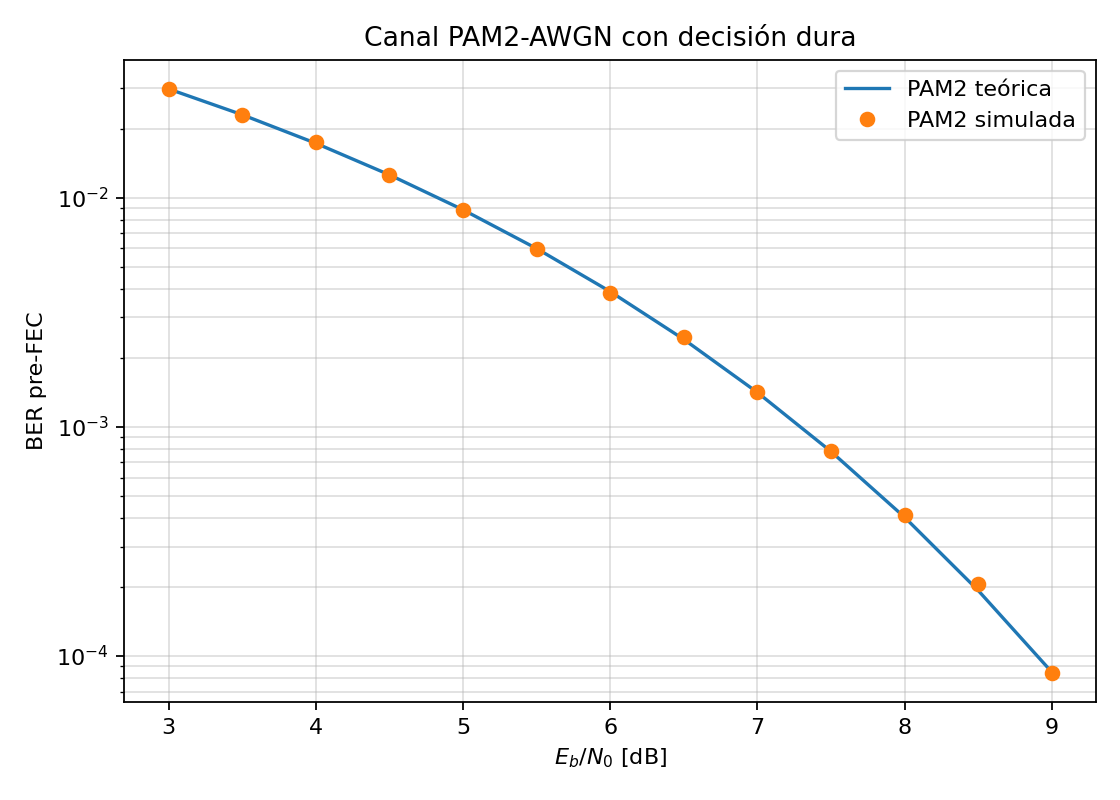
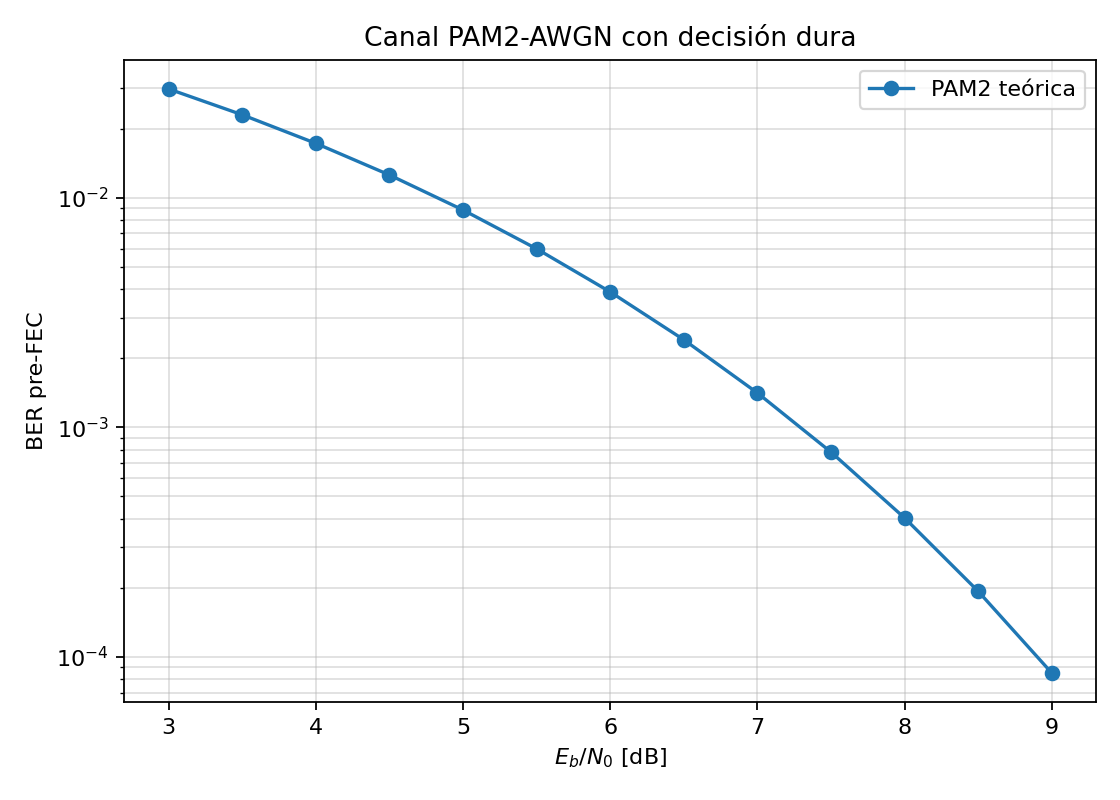
Etapa 1: Modulos de la cadena listos

diff --git a/model/python/src/awgn_simulation.py b/model/python/src/awgn_simulation.py
@@ -4,7 +4,7 @@ from pathlib import Path
 import matplotlib.pyplot as plt
 import numpy as np
 
-from model.python.src.awgn_channel import noise_sigma, theoretical_ber
+from awgn_channel import noise_sigma, theoretical_ber
 
 
 N = 127
@@ -12,59 +12,32 @@ K = 113
 CODE_RATE = K / N
 
 EBN0_DB_LIST = np.arange(3.0, 9.01, 0.5)
-FRAMES_PER_BATCH = 20_000
-MAX_FRAMES = 2_000_000
-MIN_ERRORS = 200
-SEED = 2026
-
-VISUAL_EBN0_DB = 6.0
-VISUAL_SAMPLES = 200_000
+VISUAL_EBN0_DB = 3.0
 OUTPUT_DIRECTORY = Path(__file__).resolve().parents[1] / "results"
 
 
-def simulate_ber(random_generator) -> tuple[list[float], list[float]]:
-    """Estima la BER pre-FEC para cada valor de Eb/N0."""
+def calculate_ber() -> list[float]:
+    """Calcula la BER teórica para cada valor de Eb/N0."""
 
-    simulated_ber = []
     theoretical_values = []
 
-    print("Eb/N0 [dB] | Frames | Errores | BER simulada | BER teórica")
-    print("------------+--------+---------+--------------+------------")
+    print("Eb/N0 [dB] | BER teórica")
+    print("------------+------------")
 
     for ebn0_db in EBN0_DB_LIST:
-        sigma = noise_sigma(ebn0_db, CODE_RATE)
-        frames = 0
-        errors = 0
-
-        while frames < MAX_FRAMES and errors < MIN_ERRORS:
-            batch_frames = min(FRAMES_PER_BATCH, MAX_FRAMES - frames)
-            bits = random_generator.integers(0, 2, size=(batch_frames, N), dtype=np.int8)
-            transmitted = 1.0 - 2.0 * bits
-            noise = random_generator.normal(0.0, sigma, transmitted.shape)
-            received_bits = transmitted + noise < 0.0
-
-            errors += int(np.count_nonzero(received_bits != bits))
-            frames += batch_frames
-
-        ber = errors / (frames * N)
         ber_theory = theoretical_ber(ebn0_db, CODE_RATE)
-        simulated_ber.append(ber)
         theoretical_values.append(ber_theory)
 
-        print(
-            f"{ebn0_db:11.1f} | {frames:6d} | {errors:7d} | "
-            f"{ber:12.4e} | {ber_theory:10.4e}"
-        )
+        print(f"{ebn0_db:11.1f} | {ber_theory:10.4e}")
 
-    return simulated_ber, theoretical_values
+    return theoretical_values
 
 
-def plot_ber(simulated_ber, theoretical_values) -> None:
-    """Grafica la BER simulada y la expresión teórica."""
+def plot_ber(theoretical_values) -> None:
+    """Grafica la BER teórica de PAM2 sobre AWGN."""
 
     plt.figure(figsize=(7, 5))
-    plt.semilogy(EBN0_DB_LIST, theoretical_values, "-", label="PAM2 teórica")
-    plt.semilogy(EBN0_DB_LIST, simulated_ber, "o", label="PAM2 simulada")
+    plt.semilogy(EBN0_DB_LIST, theoretical_values, "o-", label="PAM2 teórica")
     plt.grid(True, which="both", alpha=0.4)
     plt.xlabel("$E_b/N_0$ [dB]")
     plt.ylabel("BER pre-FEC")
@@ -75,22 +48,22 @@ def plot_ber(simulated_ber, theoretical_values) -> None:
     plt.close()
 
 
-def plot_constellation(transmitted, received) -> None:
-    """Muestra la constelación PAM2 ideal y luego del canal."""
+def plot_constellation(sigma: float) -> None:
+    """Muestra los símbolos PAM2 y su dispersión teórica por el ruido."""
 
     figure, axes = plt.subplots(1, 2, figsize=(9, 3.5), sharey=True)
-    ideal_symbols = np.unique(transmitted)
+    ideal_symbols = np.array([-1.0, 1.0])
 
     axes[0].scatter(ideal_symbols, np.zeros(len(ideal_symbols)), s=55)
     axes[0].set_title("Sin ruido")
 
-    axes[1].scatter(received[:1000], np.zeros(1000), s=8, alpha=0.15)
-    axes[1].scatter(
+    axes[1].errorbar(
         ideal_symbols,
         np.zeros(len(ideal_symbols)),
-        s=40,
-        marker="x",
-        label="Símbolos ideales",
+        xerr=sigma,
+        fmt="o",
+        capsize=5,
+        label=r"Símbolos y dispersión $\pm\sigma$",
     )
     axes[1].set_title(f"Con ruido, $E_b/N_0={VISUAL_EBN0_DB:.1f}$ dB")
     axes[1].legend()
@@ -115,13 +88,12 @@ def gaussian_pdf(values, mean: float, sigma: float):
     return scale * np.exp(-0.5 * ((values - mean) / sigma) ** 2)
 
 
-def plot_noise_pdf(noise, sigma: float) -> None:
-    """Compara el histograma del ruido con su PDF teórica."""
+def plot_noise_pdf(sigma: float) -> None:
+    """Grafica la PDF teórica del ruido gaussiano."""
 
     horizontal_axis = np.linspace(-4.0 * sigma, 4.0 * sigma, 500)
 
     plt.figure(figsize=(7, 5))
-    plt.hist(noise, bins=100, density=True, alpha=0.55, label="Muestras")
     plt.plot(horizontal_axis, gaussian_pdf(horizontal_axis, 0.0, sigma), label="PDF teórica")
     plt.grid(True, alpha=0.3)
     plt.xlabel("Amplitud del ruido $n$")
@@ -133,15 +105,14 @@ def plot_noise_pdf(noise, sigma: float) -> None:
     plt.close()
 
 
-def plot_received_distribution(received, sigma: float) -> None:
-    """Muestra la distribución bimodal de las muestras y=x+n."""
+def plot_received_distribution(sigma: float) -> None:
+    """Grafica la PDF teórica de las muestras y=x+n."""
 
     horizontal_axis = np.linspace(-3.5, 3.5, 700)
     theoretical_pdf = 0.5 * gaussian_pdf(horizontal_axis, -1.0, sigma)
     theoretical_pdf += 0.5 * gaussian_pdf(horizontal_axis, 1.0, sigma)
 
     plt.figure(figsize=(7, 5))
-    plt.hist(received, bins=120, density=True, alpha=0.55, label="Muestras recibidas")
     plt.plot(horizontal_axis, theoretical_pdf, label="PDF teórica")
     plt.axvline(0.0, color="gray", linewidth=1, linestyle="--", label="Umbral")
     plt.grid(True, alpha=0.3)
@@ -156,20 +127,14 @@ def plot_received_distribution(received, sigma: float) -> None:
 
 def main() -> None:
     OUTPUT_DIRECTORY.mkdir(parents=True, exist_ok=True)
-    random_generator = np.random.default_rng(SEED)
 
-    simulated_ber, theoretical_values = simulate_ber(random_generator)
-    plot_ber(simulated_ber, theoretical_values)
+    theoretical_values = calculate_ber()
+    plot_ber(theoretical_values)
 
     sigma = noise_sigma(VISUAL_EBN0_DB, CODE_RATE)
-    bits = random_generator.integers(0, 2, VISUAL_SAMPLES, dtype=np.int8)
-    transmitted = 1.0 - 2.0 * bits
-    noise = random_generator.normal(0.0, sigma, VISUAL_SAMPLES)
-    received = transmitted + noise
-
-    plot_constellation(transmitted, received)
-    plot_noise_pdf(noise, sigma)
-    plot_received_distribution(received, sigma)
+    plot_constellation(sigma)
+    plot_noise_pdf(sigma)
+    plot_received_distribution(sigma)
 
     print(f"\nGráficos guardados en {OUTPUT_DIRECTORY}")
 

diff --git a/model/python/src/prbs_checker.py b/model/python/src/prbs_checker.py
@@ -1,0 +1,109 @@
+from model.python.src.prbs31 import ORDER, PRBS31Generator
+
+
+class PRBS31Checker:
+    """Checker que recupera el estado inicial desde los bits recibidos."""
+
+    def __init__(self, taps: list[int], lock_matches: int = 1):
+        if lock_matches <= 0:
+            raise ValueError("La cantidad de coincidencias debe ser mayor que cero")
+
+        if not taps or any(tap < 0 or tap >= ORDER for tap in taps):
+            raise ValueError("Cada tap debe ser un índice válido del estado")
+
+        if len(set(taps)) != len(taps):
+            raise ValueError("Los taps no pueden estar repetidos")
+
+        self.history_indices = [ORDER - 1 - tap for tap in taps]
+        self.lock_matches = lock_matches
+        self.history = []
+        self.consecutive_matches = 0
+        self.locked = False
+        self.received_bits = 0
+        self.discarded_bits = 0
+        self.checked_bits = 0
+        self.error_bits = 0
+
+    def check_bit(self, received: int) -> None:
+        """Procesa un bit recibido y actualiza el estado del checker."""
+
+        if received not in (0, 1):
+            raise ValueError("Cada bit recibido debe valer cero o uno")
+
+        self.received_bits += 1
+
+        if len(self.history) < ORDER:
+            self.history.append(received)
+            return
+
+        expected = 0
+
+        for history_index in self.history_indices:
+            expected ^= self.history[history_index]
+
+        if not self.locked:
+            if received == expected and any(self.history):
+                self.consecutive_matches += 1
+            else:
+                self.consecutive_matches = 0
+
+            self.history.pop(0)
+            self.history.append(received)
+
+            if self.consecutive_matches == self.lock_matches:
+                self.locked = True
+                self.discarded_bits = self.received_bits
+
+            return
+
+        self.checked_bits += 1
+
+        if received != expected:
+            self.error_bits += 1
+
+        # Una vez adquirido el lock, la referencia avanza con el bit esperado
+        # y no con el recibido. Así cada error del canal se cuenta una sola vez.
+        self.history.pop(0)
+        self.history.append(expected)
+
+    def check(self, received_bits: list[int]) -> None:
+        """Procesa una secuencia de bits en orden temporal."""
+
+        for received in received_bits:
+            self.check_bit(received)
+
+    def ber(self) -> float:
+        """Devuelve la BER medida luego de adquirir el lock."""
+
+        if self.checked_bits == 0:
+            return 0.0
+
+        return self.error_bits / self.checked_bits
+
+
+def main() -> None:
+    taps = [30, 27]
+    transmitted_seed = 0x5A17C3D2
+    transmitted_bits = PRBS31Generator(transmitted_seed, taps).generate(10_000)
+
+    # El checker recibe solamente la secuencia, no la seed del transmisor.
+    checker = PRBS31Checker(taps=taps, lock_matches=31)
+    checker.check(transmitted_bits)
+
+    assert checker.locked
+    assert checker.discarded_bits == 62
+    assert checker.checked_bits == len(transmitted_bits) - 62
+    assert checker.error_bits == 0
+    assert checker.ber() == 0.0
+
+    print("PRBS31 checker")
+    print(f"Bits recibidos  : {checker.received_bits}")
+    print(f"Bits descartados: {checker.discarded_bits}")
+    print(f"Bits verificados: {checker.checked_bits}")
+    print(f"Errores         : {checker.error_bits}")
+    print(f"BER             : {checker.ber():.3e}")
+    print("Lock desde una seed desconocida: OK")
+
+
+if __name__ == "__main__":
+    main()

diff --git a/model/python/src/prbs31.py b/model/python/src/prbs31.py
@@ -1,6 +1,49 @@
 from model.python.tools.GF2m import GF2m
 from model.python.tools.GF2m_matrix import matrix_matrix_product, matrix_vector_product, vector_matrix_product
 
+
+ORDER = 31
+TAPS = [30, 27]
+STATE_MASK = (1 << ORDER) - 1
+
+
+class PRBS31Generator:
+    """Generador PRBS31 serie"""
+
+    def __init__(self, seed: int, taps: list[int]):
+        if seed <= 0 or seed > STATE_MASK:
+            raise ValueError("La seed debe ser un valor no nulo de 31 bits")
+
+        if not taps or any(tap < 0 or tap >= ORDER for tap in taps):
+            raise ValueError("Cada tap debe ser un índice válido del estado")
+
+        if len(set(taps)) != len(taps):
+            raise ValueError("Los taps no pueden estar repetidos")
+
+        self.state = seed
+        self.taps = taps.copy()
+
+    def generate(self, bit_count: int) -> list[int]:
+        """Genera bits en orden temporal y conserva el estado alcanzado."""
+
+        if bit_count < 0:
+            raise ValueError("La cantidad de bits no puede ser negativa")
+
+        output_bits = []
+
+        for _ in range(bit_count):
+            output = (self.state >> 30) & 1
+            feedback = 0
+
+            for tap in self.taps:
+                feedback ^= (self.state >> tap) & 1
+
+            self.state = ((self.state << 1) & STATE_MASK) | feedback
+            output_bits.append(output)
+
+        return output_bits
+
+
 def transition_matrix (field: GF2m, order: int, taps: list) -> list[list]:
     zero = field.element(0)
     one  = field.element(1)
@@ -57,8 +100,8 @@ def parallel_matrices(A: list[list], parallelism: int) -> tuple[list[list], list
 def main() -> None:
 
     # PRBS31: p(x) = x^31 + x^28 + 1
-    order = 31
-    taps = [30, 27]
+    order = ORDER
+    taps = TAPS
     parallelism = 791
     sequence_length = 2**12
 
@@ -90,8 +133,12 @@ def main() -> None:
 
     parallel_sequence = parallel_sequence[:sequence_length]
 
-
     assert parallel_sequence == serial_sequence
+
+    # El generador reutilizable debe respetar la misma convención de estado.
+    integer_generator = PRBS31Generator(seed=STATE_MASK, taps=taps)
+    integer_sequence = integer_generator.generate(sequence_length)
+    assert integer_sequence == serial_sequence
 
     print("PRBS31")
     print(f"Matriz de transición serial   : {len(A)}x{len(A[0])}")
@@ -100,6 +147,7 @@ def main() -> None:
     print(f"Bits comparados               : {sequence_length}")
     print("Serie y paralelo reducido     : OK")
     print("Serie y matriz extendida      : OK")
+    print("Generador serie: OK")
 
 if __name__ == "__main__":
     main()
